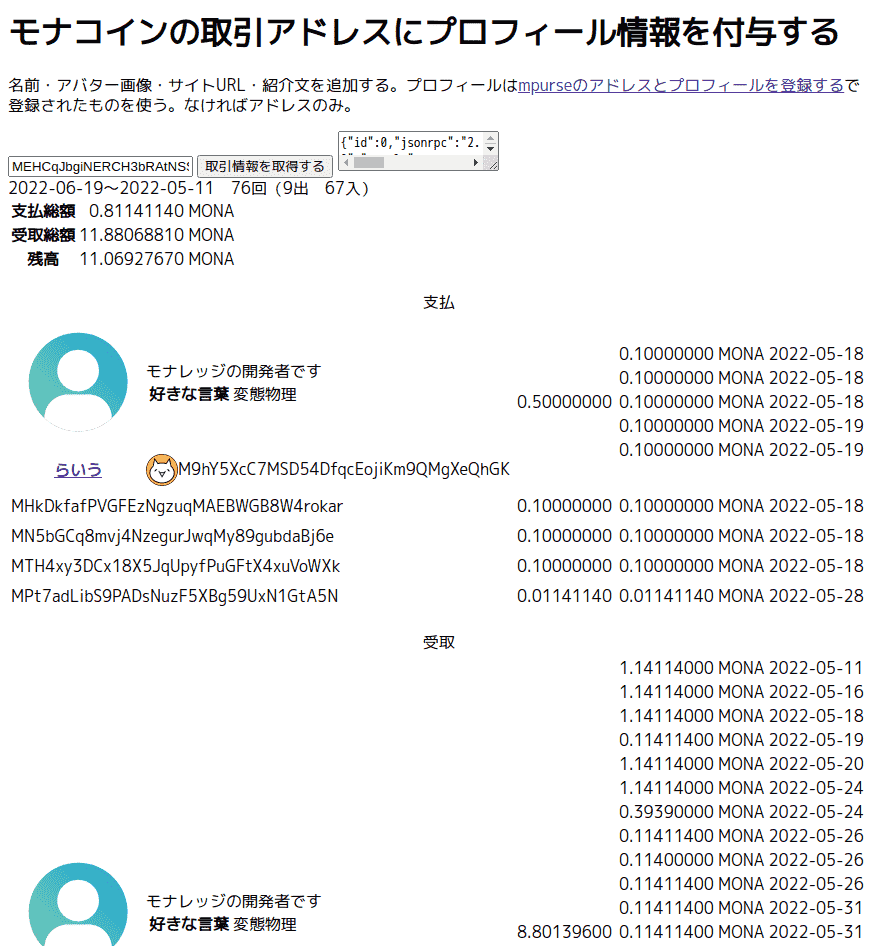
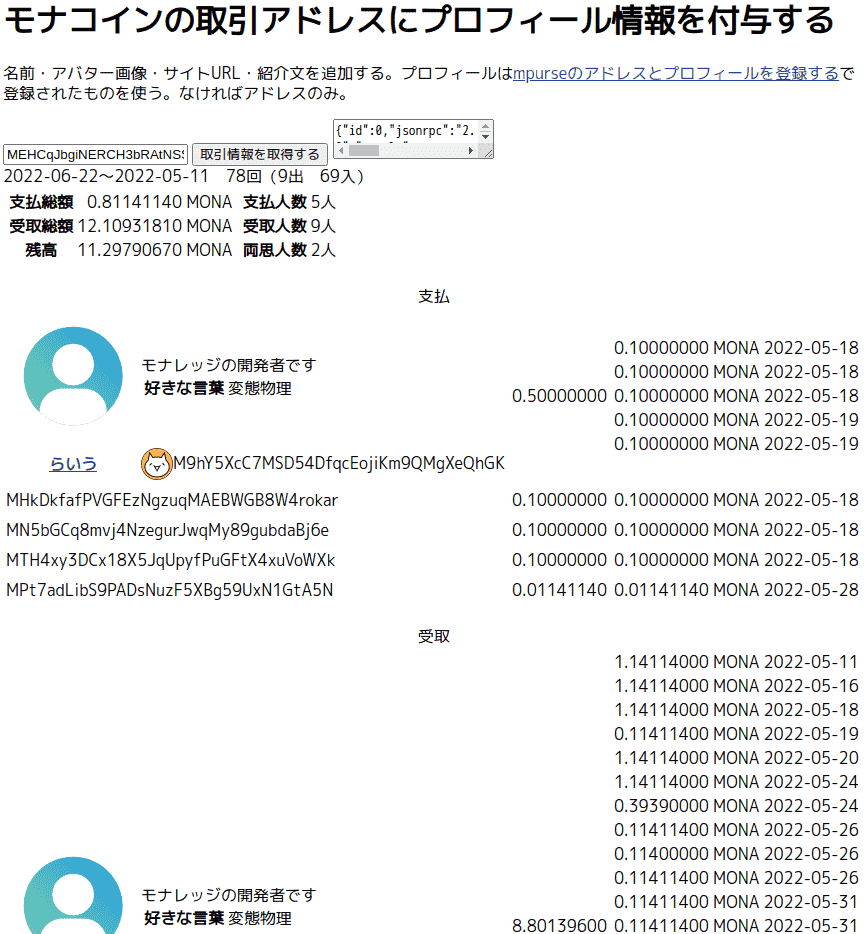
人数テーブルを追加した。

diff --git a/docs/js/mona-transaction-viewer.js b/docs/js/mona-transaction-viewer.js
@@ -9,7 +9,12 @@ class MonaTransactionViewer {
         this.profiles = await this.register.get()
         return this.makeTerm(json)
              + '<br>'
+             + this.makeBalancePeopleTable(json)
+             /*
              + this.makePayBalanceAmount(json)
+             + '<br>'
+             + this.makePeopleTotalTable(json)
+             */
              + '<br>'
              + this.makePeoplesTable(this.makePayPeoples(json), '支払')
              + '<br>'
@@ -35,6 +40,7 @@ class MonaTransactionViewer {
         //const format = `${date.getFullYear()}-${month}-${date} ${hours}:${minutes}:${seconds}`
         return `<time datetime="${iso}" title="${iso}">${format}</time>`
     }
+    makeBalancePeopleTable(json) { return `<table><tr><td>${this.makePayBalanceAmount(json)}</td><td>${this.makePeopleTotalTable(json)}</td></tr></table>` }
     makePayBalanceAmount(json) {
         const pay = this.calcTotalPay(json)
         console.debug(pay)
@@ -43,6 +49,21 @@ class MonaTransactionViewer {
         const balance = this.calcBalance(received, pay) // received - pay
         console.debug(balance)
         return `<table><tr><th>支払総額</th><td class="num"><span id="total-pay">${pay.toFixed(8)}</span> MONA</td></tr><tr><th>受取総額</th><td class="num"><span id="balance">${received.toFixed(8)}</span> MONA</td></tr><tr><th>残高</th><td class="num"><span id="balance">${balance.toFixed(8)}</span> MONA</td></tr></table>`
+    }
+    makePeopleTotalTable(json) { // 支払人数,受取人数
+        const pays = this.makePayPeoples(json)
+        const receives = this.makeReceivedPeoples(json)
+        //const pays = json.result.filter(r=>this.isPay(r.vout))
+        //const receives = json.result.filter(r=>!this.isPay(r.vout))
+        //const both = new Set([...pays.map(p=>p.address), ...receives.map(r=>r.address)])
+        // 積集合
+        // https://zenn.dev/nananaoto/articles/3c49bcf18017b472b9ff
+        const both = pays.map(p=>p.address).filter((p) => receives.map(r=>r.address).includes(p))
+        return `<table>
+<tr><th>支払人数</th><td class="num"><span id="total-pay-peoples">${pays.length}</span>人</td></tr>
+<tr><th>受取人数</th><td class="num"><span id="total-receive-peoples">${receives.length}</span>人</td></tr>
+<tr><th>両思人数</th><td class="num"><span id="total-pay-receive-peoples">${both.length}</span>人</td></tr>
+</table>`
     }
     makePeoplesTable(results, caption) {
         console.debug(results)
@@ -71,7 +92,7 @@ class MonaTransactionViewer {
     }
     makePayPeoples(json) { return this.makePeoples(json.result.filter(r=>this.isPay(r.vout))) }
     makeReceivedPeoples(json) { return this.makePeoples(json.result.filter(r=>!this.isPay(r.vout))) }
-    makePeoples(results, isPay) {
+    makePeoples(results) {
         const datas = []
         for (const r of results) {
             const addr = r.vout[(this.my == r.vout[0].scriptPubKey.addresses[0]) ? 1 : 0].scriptPubKey.addresses[0]
